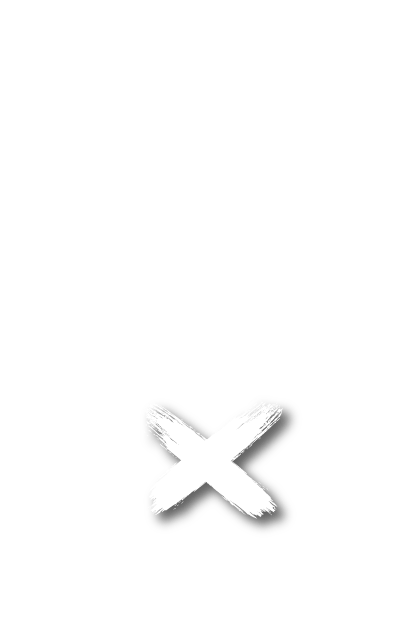
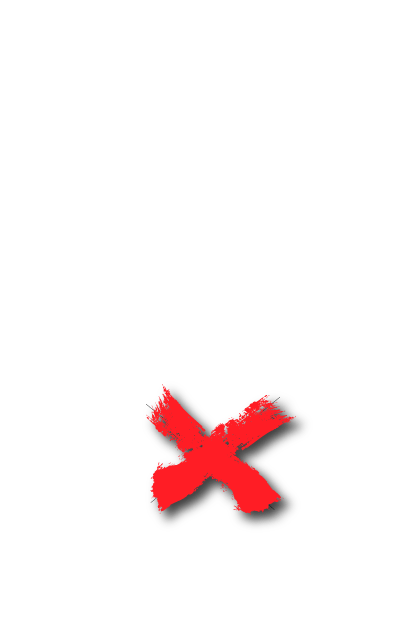
👌 IMPROVE: animation

Changed region(s): [[0.3627, 0.6051, 0.7859, 0.8471]]

diff --git a/src/components/Tilt.vue b/src/components/Tilt.vue
@@ -37,7 +37,7 @@ export default {
       // "full-page-listening": true
     });
     setInterval(() => {
-      if (!this.hover) {
+      if (this.hover) {
         this.XIndex = Math.ceil(Math.random() * 3);
         // this.faceIndex = Math.ceil(Math.random() * 2);
       }
@@ -74,6 +74,6 @@ export default {
 }
 #tiltImage {
   // z-index: -3;
-  transform: translateZ(30px);
+  transform: translateZ(25px);
 }
 </style>
